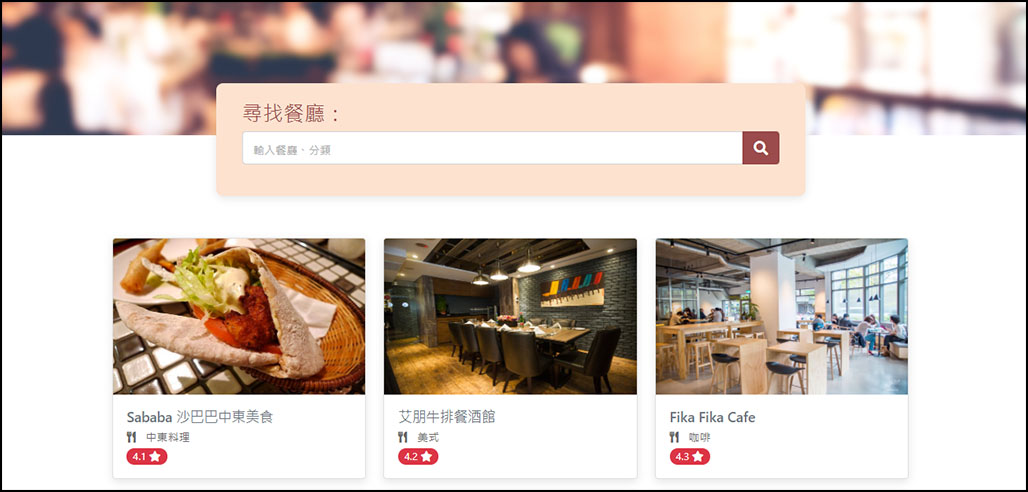
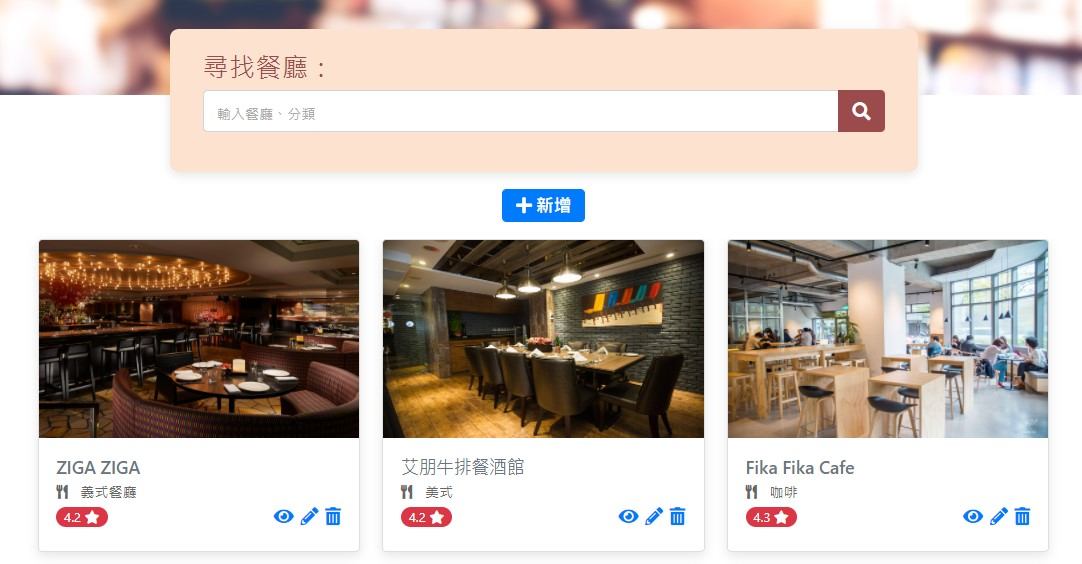
新增頁面標題 1.編輯 README 2.新增頁面標題 3.修改運行截圖

diff --git a/README.md b/README.md
@@ -8,11 +8,15 @@
 - 查看餐廳的詳細資料
 - 以店名查詢餐廳
 - 以類別查詢餐廳
+- 新增餐廳資料
+- 修改餐廳資料
+- 刪除餐廳資料
 
 ### 需求
 
 - Node.js & npm
 - port 3000
+- MongoDB
 - Nodemon (optional)
 
 ### 安裝
@@ -50,3 +54,4 @@ npm run start
 
 - [Express](https://www.npmjs.com/package/express) - Framework
 - [Express-Handlebars](https://www.npmjs.com/package/express-handlebars) - Template Engine
+- [Mongoose](https://www.npmjs.com/package/mongoose) - ODM
